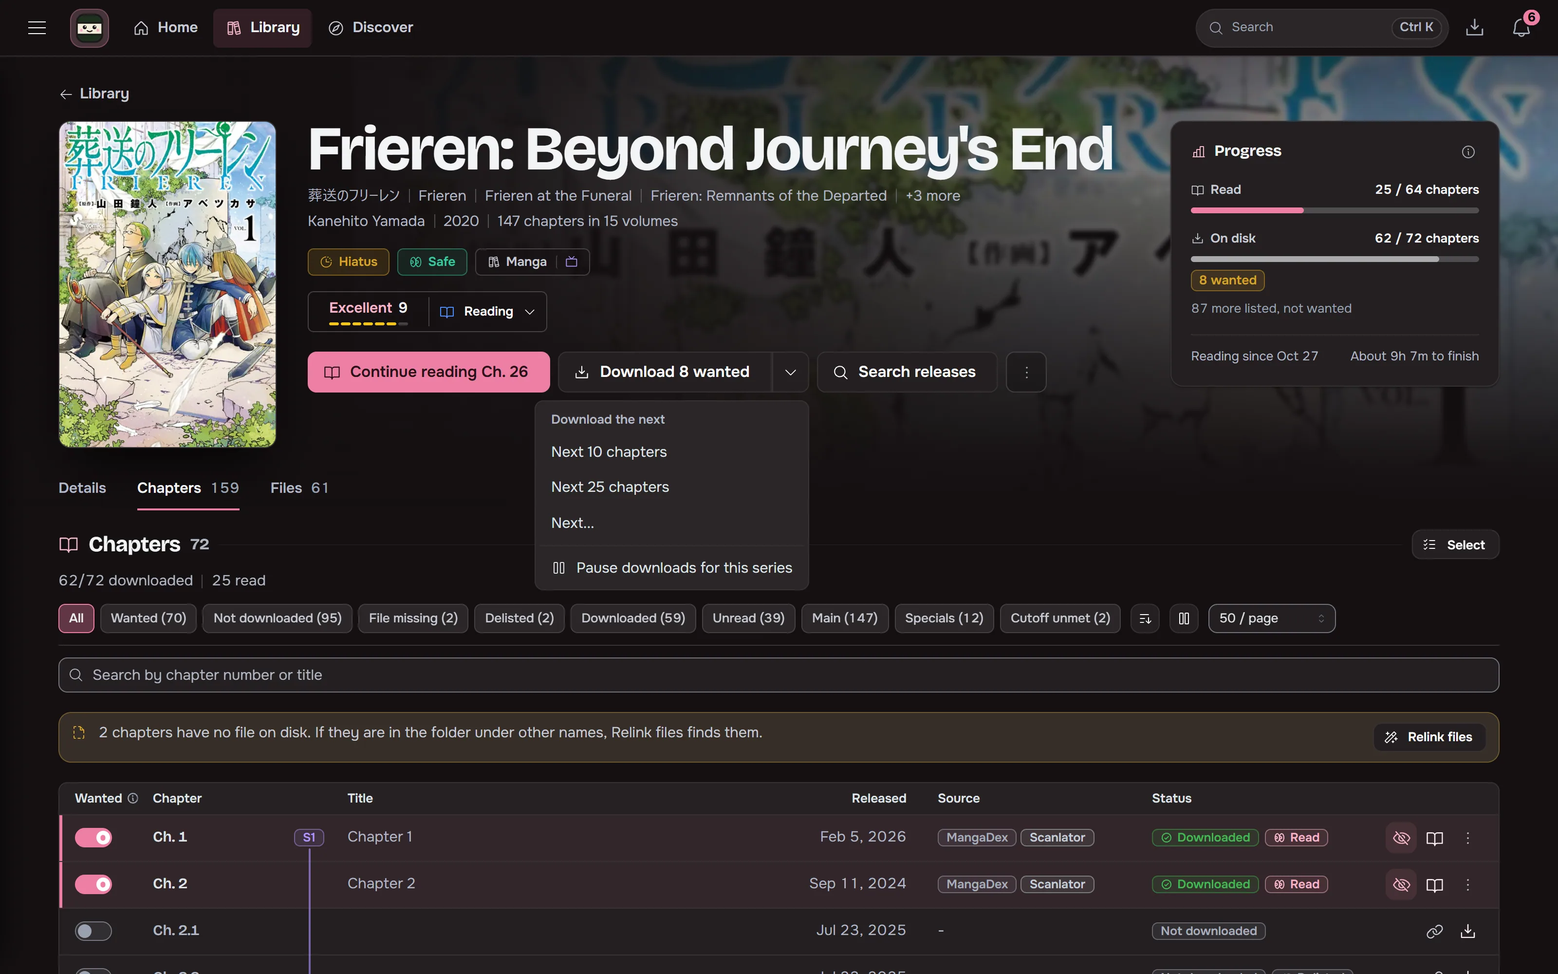
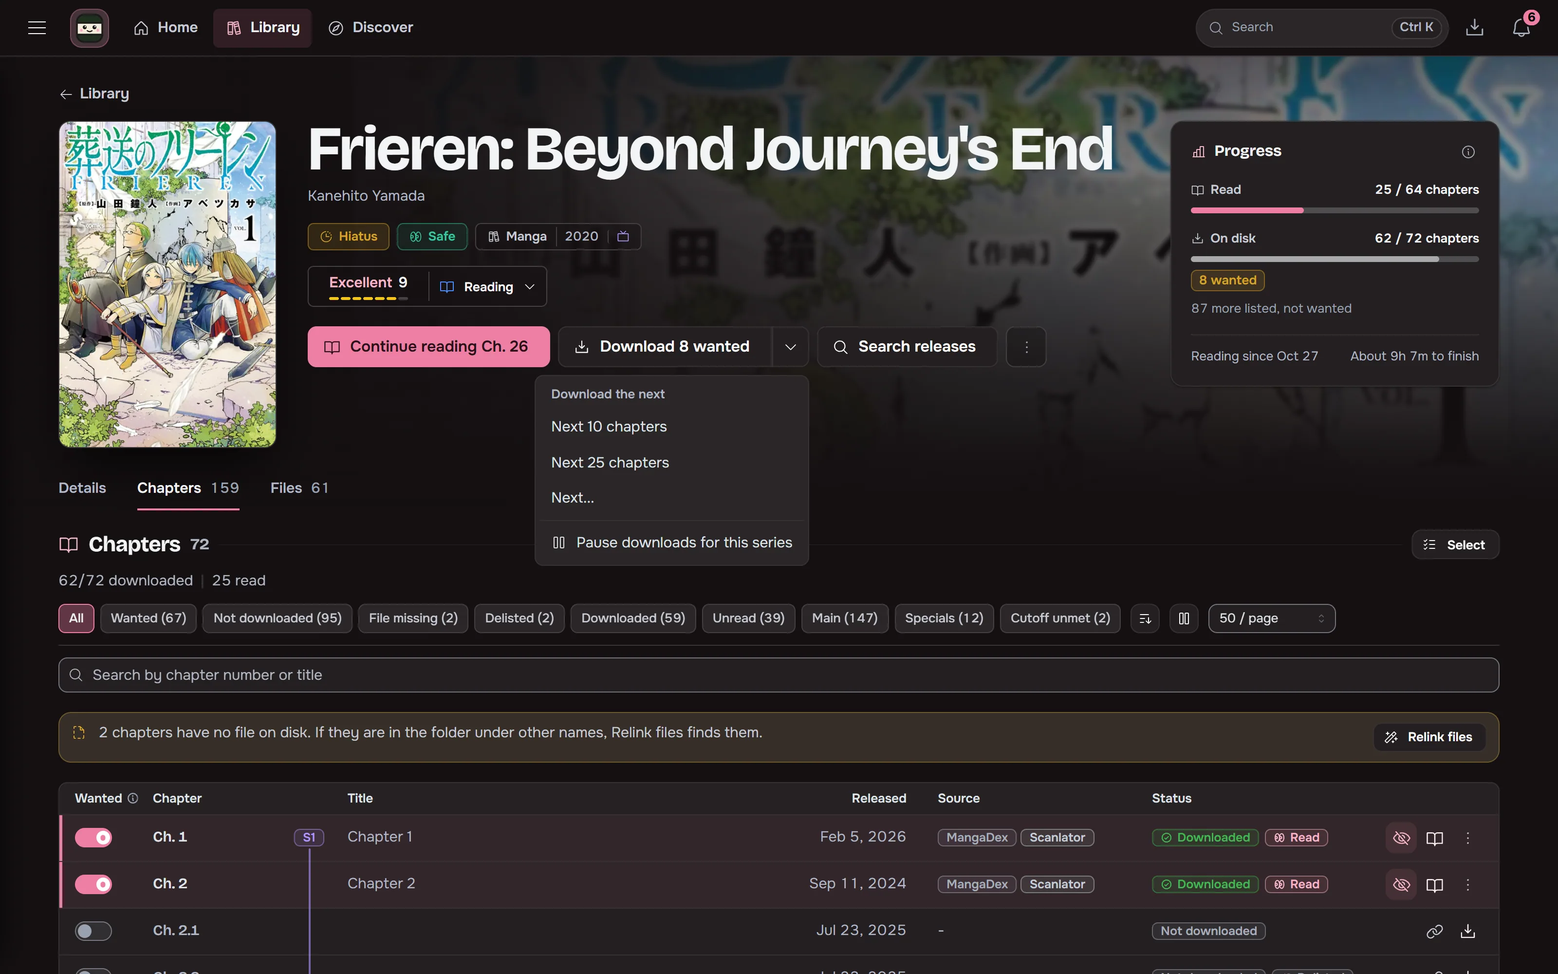
docs(site): match the guides to the current UI
Screenshot review turned up guide text that no longer matched the app.
Each change was checked against the source:

- Ratings use word buttons and Fine-tune, not stars, and Break it down
  is described.
- Notifications: Choose events, Which series notify me, and the
  Default/All/Reading/Muted per-series choice.
- Custom rails describe the Simple and Rules views.
- Folders on import and its option labels, plus the switch that renames
  imported files.
- Page conversion: the Everything else row and the Where do you read?
  presets.
- Retention names Keep each reader's last read chapter.
- Chapter notes: the Note button and the optional Pin to page N.
- Reader shortcuts list < and > and the Change keys link.
- Connect explains the chip popover on the Scrobble page.
- Compare shows a column per source, API keys start from New key, the
  approval settings sit behind Approve automatically, Restart to update
  is named as Settings shows it, and the backup caution says which
  secrets are kept in plain text.

Changed region(s): [[0.1875, 0.186, 0.5312, 0.589], [0.5312, 0.341, 0.625, 0.403], [0.4375, 0.186, 0.5625, 0.217]]

diff --git a/site/src/content/docs/guides/trackers/ratings.md b/site/src/content/docs/guides/trackers/ratings.md
@@ -3,19 +3,23 @@ title: 'Ratings and "so far" scores'
 description: Rate a series when you finish it or partway through, when Maki asks, and how ratings reach trackers and recommendations.
 ---
 
-A series can carry one rating from 1 to 10, set with stars in half steps. Partway through a series you can also set a "so far" score. It is kept apart from your final rating and steers recommendations less.
+A series can carry one rating from 1 to 10. Partway through a series you can also set a "so far" score. It is kept apart from your final rating and steers recommendations less.
 
 ## Rating a series
 
-On the series page, press the stars. A series you have not started, or have finished, takes a final rating. A series you are partway through takes a "so far" score, shown with the chapter it was set at, for example "so far, at ch. 34".
+On the series page, press **Rate** (or your current score) to open the rating panel, then pick a word. Each word sets a whole score: **Bad** is 3, **Average** 5, **Decent** 6, **Good** 7, **Very good** 8, **Excellent** 9 and **Masterpiece** 10. **Fine-tune** moves the score up or down by 1, or by 0.1 when **Rating precision** is set to **One decimal** in **Settings → Reading → Ratings**. Press the number to type a score. The panel saves when you close it.
+
+A series you have not started, or have finished, takes a final rating. A series you are partway through takes a "so far" score, shown with the chapter it was set at, for example "so far, at ch. 34".
 
 ![The rating panel on a series page set to Excellent, with score buttons from Bad to Masterpiece, a Fine-tune stepper, Break it down and Clear rating](../../../../assets/ui/series/rating.webp)
 
-Once you finish a series, the series page asks "You've finished this. How was it?" The stars there set the final rating. The reader's end screen asks the same on the last chapter of a series you have finished, with a one-tap **Keep** if you gave it a score so far. Maki refuses a "so far" score on a finished series.
+Once you finish a series, the series page asks "You've finished this. How was it?" The words there set the final rating. The reader's end screen asks the same on the last chapter of a series you have finished, with a one-tap **Keep** if you gave it a score so far. Maki refuses a "so far" score on a finished series.
 
 ![The "You've finished this. How was it?" line on the series page with a Break it down button, an X and score buttons from Bad to Masterpiece](../../../../assets/ui/series/rate-hint.webp)
 
 To turn a "so far" score into your final rating, press **Make this my rating** beside it, or **Keep** on the finished-series line. A final rating replaces the "so far" score. **Clear rating** removes either one.
+
+**Break it down** scores the series category by category (Story, Art, Characters and so on) with the same words. Once two categories are scored, the panel suggests an overall score and **Use** takes it. **Ending** can only be scored once you have finished the series. Pick which categories show under **Breakdown categories** in **Settings → Reading → Ratings**.
 
 The library's **My rating** sort and filter use the score you see, so a "so far" score counts as rated there.
 
@@ -33,7 +37,7 @@ Maki asks "How is it going so far?" at a few natural points, on the series page 
 
 ![The "How is it going so far?" line on the series page with a Still button, an X and a row of score buttons from Bad to Masterpiece, Good outlined](../../../../assets/ui/series/rating-checkpoint.webp)
 
-Press a star to set the score. With a "so far" score already set, a **Still a 7** button (with your current score) keeps it in one tap. The X dismisses the prompt. Ignoring the line leaves it open.
+Press a word to set the score. With a "so far" score already set, a **Still a 7** button (with your current score) keeps it in one tap. The X dismisses the prompt. Ignoring the line leaves it open.
 
 The limits:
 
@@ -48,13 +52,13 @@ Both switches are in **Settings → Reading → Rating prompts**. **Ask how a se
 
 ## Rating history
 
-Once a series has two ratings, a history icon sits beside its stars. **Your rating over time** lists every change with its score, whether it was a "so far" or final rating, the chapter it was set at, and the date.
+Once a series has two ratings, a history icon sits beside its rating. **Your rating over time** lists every change with its score, whether it was a "so far" or final rating, the chapter it was set at, and the date.
 
 ![The Your rating over time popover listing the rating at each chapter checkpoint with its date](../../../../assets/ui/series/rating-history.webp)
 
 ## Archiving a part-read series
 
-Archiving a series you are partway through asks "Want to rate it before it goes?" on the series page. Stars chosen there become a final rating once the archive goes through.
+Archiving a series you are partway through asks "Want to rate it before it goes?" in the archive dialog. A word picked there becomes a final rating once the archive goes through.
 
 ## Sending ratings to trackers
 

diff --git a/site/src/content/docs/guides/trackers/connect.md b/site/src/content/docs/guides/trackers/connect.md
@@ -6,9 +6,12 @@ description: Link AniList, MyAnimeList, Kitsu, MangaBaka or MangaUpdates, and de
 Accounts are connected on the **Scrobble** page (`/scrobble`). Each tracker has its own block in
 **Settings → Integrations → Trackers**.
 
-- Trackers that use a redirect (AniList, MyAnimeList) have a **Connect** button on the Scrobble page.
-  An admin must first enter the app's client ID and secret in Settings.
-- The others have no Connect button. You save their credentials in Settings instead.
+- The Scrobble page shows one chip per tracker. Click a chip to see its state and what to do next.
+- Trackers that use a redirect (AniList, MyAnimeList) have a **Connect** button in their chip.
+  An admin must first enter the app's client ID and secret in Settings. **Set up trackers**, shown to
+  admins, opens that card.
+- The others have no Connect button. You save their credentials in Settings instead, and their chip
+  can link there with **Set up in Settings** or **Check in Settings**.
 - **Sync now** on the Scrobble page stays disabled until one tracker is connected.
 
 ![The Scrobble page with a status chip per tracker, Set up trackers and Sync now buttons, an empty Needs review section, Recent syncs and the Activity log](../../../../assets/ui/pages/scrobble.webp)
@@ -18,7 +21,7 @@ Accounts are connected on the **Scrobble** page (`/scrobble`). Each tracker has 
 1. An admin creates an API client at `anilist.co/settings/developer`. The redirect URL is your Maki
    address followed by `/api/v1/scrobble/oauth/anilist`.
 2. The admin enters the client ID and client secret in **Settings → Integrations → Trackers**.
-3. Press **Connect** on the Scrobble page and approve the login on AniList.
+3. On the Scrobble page, click the AniList chip, press **Connect** and approve the login on AniList.
 
 ![The Trackers card in Settings with AniList, MyAnimeList, MangaBaka and Kitsu connected, MangaUpdates not set up, a sync interval and the Add unread series as plan-to-read switch](../../../../assets/ui/settings/scrobbling.webp)
 
@@ -30,7 +33,7 @@ lets Discover learn from it, once **Anime you've watched** is also on in Discove
 
 ## MyAnimeList
 
-Enter the client ID and secret in the same Trackers card, then press **Connect**. Maki refreshes the
+Enter the client ID and secret in the same Trackers card, then press **Connect** in the MyAnimeList chip on the Scrobble page. Maki refreshes the
 token on its own, so you do not need to reconnect.
 
 ## Kitsu

diff --git a/site/src/content/docs/guides/running/notifications.md b/site/src/content/docs/guides/running/notifications.md
@@ -56,11 +56,14 @@ After five failed deliveries in a row, the connection shows as a warning on the 
 Each account picks its own events under **Settings → Preferences → Notifications**.
 
 - **Show a popup when a notification arrives** shows a toast while Maki is open.
-- The event table has a **Bell** column and a **Push** column. Push sends to your devices and needs
-  Bell on for the same event.
-- **Which series notify me** sets a rule per series, from its own page: **Default**, **Every
-  chapter**, **While reading** (series you are partway through) or **Muted**. Muted sends nothing
-  from that series, except that admins still get download failures.
+- **Choose events** opens the event table, with a **Bell** column and a **Push** column. Push sends
+  to your devices and needs Bell on for the same event.
+- **Which series notify me** sets your default: **Every series** or **Only series I'm reading**.
+- Any series can be set differently under **Notify** in its actions menu (inside **Automation** if
+  you can edit the series): **Default** follows the setting above, **All** tells you about every new
+  chapter, **Reading** only while you are partway through, and **Muted** sends nothing from that
+  series, except that admins still get download failures. The library's bulk action offers the same
+  choices as **Every chapter** and **While reading**.
 
 ![The Notifications preferences card with Show a popup when a notification arrives switched on, Which series notify me set to Every series, and Bell and Push summaries beside a Choose events button](../../../../assets/ui/settings/notification-prefs.webp)
 
@@ -90,7 +93,7 @@ Good to know:
 
 - On iPhone and iPad, push only works for Maki added to the home screen and opened from there.
 - If the browser blocks notifications for the site, change that in the browser's site settings.
-- New chapters and finished downloads push by default. Use the Push column for other events.
+- New chapters and finished downloads push by default. Use **Choose events** for other events.
 - Each account can have up to 20 devices. Adding one past that removes the oldest.
 - **Sign out everywhere else** also removes the push subscriptions of your other devices. The device
   you are on re-subscribes on its own.

diff --git a/site/src/content/docs/guides/getting-started/import-existing-library.md b/site/src/content/docs/guides/getting-started/import-existing-library.md
@@ -64,11 +64,11 @@ With 8 or more folders it opens on a summary, and a list you can filter with **W
 ![Import preview saying nothing has been changed yet, with one line per folder and the apothecary diaries folder open on its files, a file that stays unlinked and two files left out, and a ready and can't import summary at the bottom](../../../../assets/ui/import/preview.webp)
 
 The dialog says folders are renamed to the English title, but the real behaviour comes from
-**Settings → Library → Folder & file naming → Folder naming on import**:
+**Settings → Library → Folder & file naming → Folders on import**:
 
-- **Rename the folder to the series folder format.** This is the default.
-- **Keep the folder name, but put new downloads in a folder named by the format.**
-- **Keep the folder name, and put new downloads there too.**
+- **Rename the folder**: it takes the series folder format. This is the default.
+- **Keep the name, new downloads elsewhere**: new downloads go in a folder named by the format.
+- **Keep the name for everything**: new downloads go in the original folder too.
 
 Comics that are not CBZ, such as RAR or zip archives or a folder of loose images, are converted to
 CBZ. Your originals stay where they are. PDFs are kept as they are and read in place.
@@ -80,7 +80,9 @@ links your files to their chapters. Until that finishes, a folder reads **added 
 once sources are found**. A file whose chapter number Maki cannot read is reported as unrecognized,
 and a file that matches no chapter becomes a chapter of its own.
 
-Every import is listed under **Recent imports** with **Undo this import**, available for 30 days.
+Every import is listed under **Recent imports** for 30 days, with **Undo** on each folder and
+**Undo all** on an import that still has more than one folder to undo. Right after an import, the
+results also offer **Undo this import**.
 Undo removes a series only when the import created it and nothing has been downloaded or read
 since. It never deletes your original files.
 

diff --git a/site/src/content/docs/guides/library/page-conversion.md b/site/src/content/docs/guides/library/page-conversion.md
@@ -45,10 +45,22 @@ instead. At **High** a colour page is hard to tell from the original.
 **Set up conversion** opens one page that holds the whole plan. Nothing is saved until you press
 **Save only**, or **Save and start**, which also starts the library pass.
 
-The plan is a table. Each row is a rule, and the last row, **Files no rule above matches**, is the
-default. Every row has two targets, a format and a quality for **Black-and-white pages** and one for
-**Colour pages**, so colour inserts can go to JPEG XL while the manga around them goes to AVIF. A
-colour target can also be **Same as black-and-white**.
+The plan is a table. Each row is a rule, and the last row, **Everything else**, is the default for
+files no rule above matches (every file, while there are no rules). Every row has two targets, a
+format and a quality for **Black-and-white pages** and one for **Colour pages**, so colour inserts
+can go to JPEG XL while the manga around them goes to AVIF. A colour target can also be **Same as
+black-and-white**.
+
+**Where do you read?** above the table fills in the default row's targets for you:
+
+- **Only in Maki**: AVIF Compact for black-and-white and JPEG XL High for colour. Colour falls back
+  to AVIF High when the server or your browser cannot handle JPEG XL.
+- **Also in apps like Mihon**: AVIF Compact and AVIF High.
+- **Also in KOReader or on an e-reader**: WebP Compact and WebP High, since KOReader opens neither
+  AVIF nor JPEG XL.
+
+Changing a target by hand afterwards clears the choice. The first time you turn conversion on, Maki
+starts from **Only in Maki**.
 
 ![Page conversion setup page with Where do you read? choices, a plan table whose one row targets AVIF Compact for black-and-white and AVIF High for colour pages, and a footer estimating the size now and after conversion with Save only and Save and start](../../../../assets/ui/pages/page-conversion-setup.webp)
 

diff --git a/site/src/content/docs/guides/library/folder-layout.md b/site/src/content/docs/guides/library/folder-layout.md
@@ -101,16 +101,18 @@ Saving a new format moves nothing. Existing files keep their names until you use
 series to current format** on the same card. Maki refuses to rename a series while a download for it
 is running, or when two chapters would end up with the same name.
 
-## Folder naming on import
+## Folders on import
 
-When Maki imports a series folder that already exists, **Folder naming on import** decides what
+When Maki imports a series folder that already exists, **Folders on import** decides what
 happens:
 
-- **Rename the folder to the series folder format.** The default.
-- **Keep the folder name, but put new downloads in a folder named by the format.** Old files stay
-  put and new chapters go into a second folder, so one series can span two folders under the same
-  root.
-- **Keep the folder name, and put new downloads there too.**
+- **Rename the folder**: it takes the series folder format. The default.
+- **Keep the name, new downloads elsewhere**: old files stay put and new chapters go into a folder
+  named by the format, so one series can span two folders under the same root.
+- **Keep the name for everything**: new downloads go in the original folder too.
+
+**Rename imported files to the chapter file format**, on the same card and on by default, renames
+the files a torrent or manual import adds. Turn it off to keep the release's own file names.
 
 :::tip
 Pick a format before you import a large library. Renaming later works, but it touches every file.

diff --git a/site/src/content/docs/guides/recommendations/local-database.md b/site/src/content/docs/guides/recommendations/local-database.md
@@ -41,9 +41,14 @@ database first. Turning it on starts a model switch that downloads the model and
 on the status line. Maki tries the prebuilt vectors first, about 42 MB to download and 65 MB on disk.
 If none are available, it builds the index on your machine, which takes a long time on a CPU. Search
 and the rails that need the index are empty until it is in place. While loaded, the search model
-uses about 40 MB of its own memory. Its weights are read from a memory-mapped copy of the model,
-about 110 MB on disk in the config folder, which Maki writes after the first search by meaning, so
-they count as page cache the system can reclaim. It unloads after 1 idle minute by default.
+uses about 150 MB of RAM, as the card says. Most of that is its weights, read from a memory-mapped
+copy of the model, about 110 MB on disk in the config folder, which Maki writes after the first
+search by meaning, so they count as page cache the system can reclaim. It unloads after 1 idle
+minute by default.
+
+**Check for prebuilt now** downloads the prebuilt index straight away, even if the one you have is
+current, as long as it was built for your model. It is greyed out while the switch is off or the
+index is building, and a message says why when nothing was installed.
 
 ![The Semantic search & recommendations card switched on, with a progress bar, the embedded series count and a Check for prebuilt now button](../../../../assets/ui/settings/recommendations.webp)
 

diff --git a/site/src/content/docs/guides/reading/maki-reader.md b/site/src/content/docs/guides/reading/maki-reader.md
@@ -150,6 +150,9 @@ series only, the profile in use, or your reader defaults.
 Press `?` in the reader for the list. Keys are ignored while focus is in a text field, and
 combinations with Ctrl, Cmd or Alt are left to the browser.
 
+The table below lists the default keys. To change them, use **Change keys** at the bottom of the
+list, which opens **Settings → Reading → Keyboard shortcuts**.
+
 ![Keyboard shortcuts sheet in the reader, grouped into Turning pages, Auto-scroll, Layout and Everything else, with a Change keys link](../../../../assets/ui/reader/shortcuts.webp)
 
 | Key | Action |
@@ -171,7 +174,7 @@ combinations with Ctrl, Cmd or Alt are left to the browser.
 | `F` | Full screen |
 | `T` | Page thumbnails |
 | `B` | Bookmark this page |
-| `,` / `.` | Previous / next bookmark |
+| `,` or `<` / `.` or `>` | Previous / next bookmark |
 | `H` (hold) | Show the original page while the key is held, if enhancement is on |
 | `Esc` | Back to the page you opened the chapter from, such as Home or the Library, or the series page after a reload or a link. Outside full screen only, since `Esc` leaves full screen first. |
 | `?` | Show or hide the shortcut list |

diff --git a/site/src/content/docs/guides/sources/torrents.md b/site/src/content/docs/guides/sources/torrents.md
@@ -75,9 +75,9 @@ The Volume releases card has more controls:
 - **Minimum seeders** (1 by default). Releases with fewer seeders are never grabbed or approved on
   their own, and no-seeder releases are skipped. The release search marks them, and you can still
   grab them by hand.
-- **Approve volume releases automatically**, off by default, grabs a proposed digital release under
-  the **Automatic approval size ceiling (MB)** (12 GB by default) when the only reasons it waited
-  were a missing volume range, chapters you don't have, or the auto-grab size. Anything Maki is
+- **Approve automatically** opens **Approve volume releases automatically**. Off by default, it grabs
+  a proposed digital release under the **Automatic approval size ceiling (MB)** on the same page
+  (12 GB by default) when the only reasons it waited were a missing volume range, chapters you don't have, or the auto-grab size. Anything Maki is
   unsure about, including a release whose language is in doubt, still waits for you. An approved
   release only replaces files it is at least as good as, and those go to the trash.
 

diff --git a/site/src/content/docs/guides/sources/choosing-sources.md b/site/src/content/docs/guides/sources/choosing-sources.md
@@ -69,9 +69,10 @@ Each linked source also has a priority number. In manual order, a lower number i
 quality order, the priority number only breaks ties between sources of equal quality.
 
 Quality comes from sampling. **Measure** on the series page takes a few pages from three chapters on
-every enabled source and records a quality tier for each, and **Compare** shows two sources side by
-side. To measure new series automatically, turn on **Measure sources when a series is added** in the
-Sources section of Downloads settings.
+every enabled source and records a quality tier for each, and **Compare** shows the same chapter from
+each source in its own column. Drag the columns into the order you like and save to set the series'
+download order. To measure new series automatically, turn on **Measure sources when a series is
+added** in the Sources section of Downloads settings.
 
 Smart Download waits until a new series' sources have been measured, so its first batch doesn't go
 to a source ranked on a guess. If no measurement ever ran, it starts one, and it starts downloading

diff --git a/site/src/content/docs/installation/windows.md b/site/src/content/docs/installation/windows.md
@@ -69,7 +69,7 @@ Maki keeps its database, settings, covers, backups and logs in `%LOCALAPPDATA%\M
 
 ## Updates
 
-Maki checks for a new version two minutes after it starts, then every six hours. Updates download in the background. When one is ready, the tray menu shows **Restart to update to <version>**, and **Settings → System → Updates** shows the same. Choose it when it suits you. If you do not, Maki installs the update the next time it starts.
+Maki checks for a new version two minutes after it starts, then every six hours. Updates download in the background. When one is ready, the tray menu shows **Restart to update to <version>**, and **Settings → System → Updates** has a **Restart to update** button. Choose either one when it suits you. If you do not, Maki installs the update the next time it starts.
 
 ![Updates card with Check for updates on, the available version, a note that the update is downloaded, and Check now and Restart to update buttons](../../../assets/ui/settings/updates-desktop.webp)
 

diff --git a/site/src/content/docs/guides/recommendations/custom-rails.md b/site/src/content/docs/guides/recommendations/custom-rails.md
@@ -24,8 +24,10 @@ You can have up to 30 custom rails.
 - **Obscurity** and **Variety.** Recommendation rails only. Obscurity moves between **popular** and
   **gems**, variety between **closest** and **varied**.
 
-Filters use the same panel as the catalogue. For genres and tags, pick **Has all of**, **Has any of**
-or **Has none of**.
+Filters use the same panel as the catalogue. Under **Genres and tags**, the **Simple** view has genre
+chips (click once to require a genre, twice to exclude it), **Tags to include** with an **All** or
+**Any** switch, and **Tags to exclude**. The **Rules** view builds a list of rules, each set to **Has
+all of**, **Has any of** or **Has none of**, and a series has to pass every rule.
 
 ![The New rail dialog for a rail named Teen romcoms shown on Home with titles from Your library, a Saved Library filter picker, genre chips and tag fields](../../../../assets/ui/home/new-rail.webp)
 
